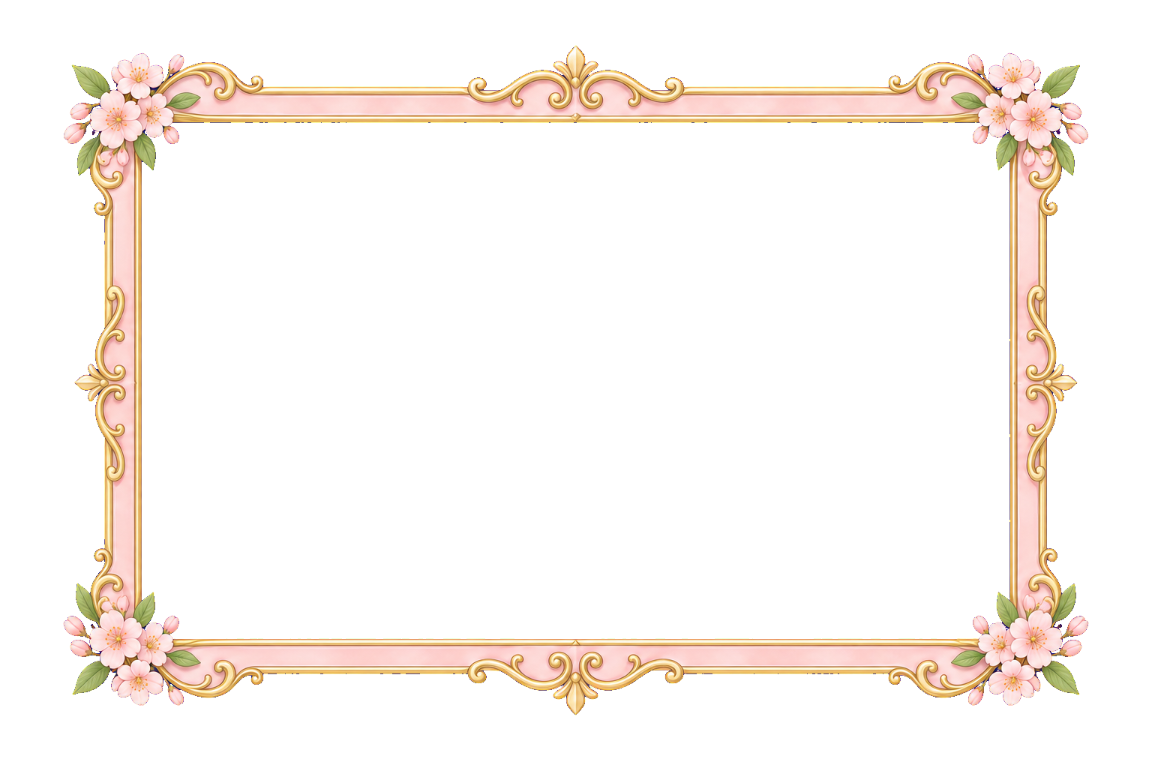
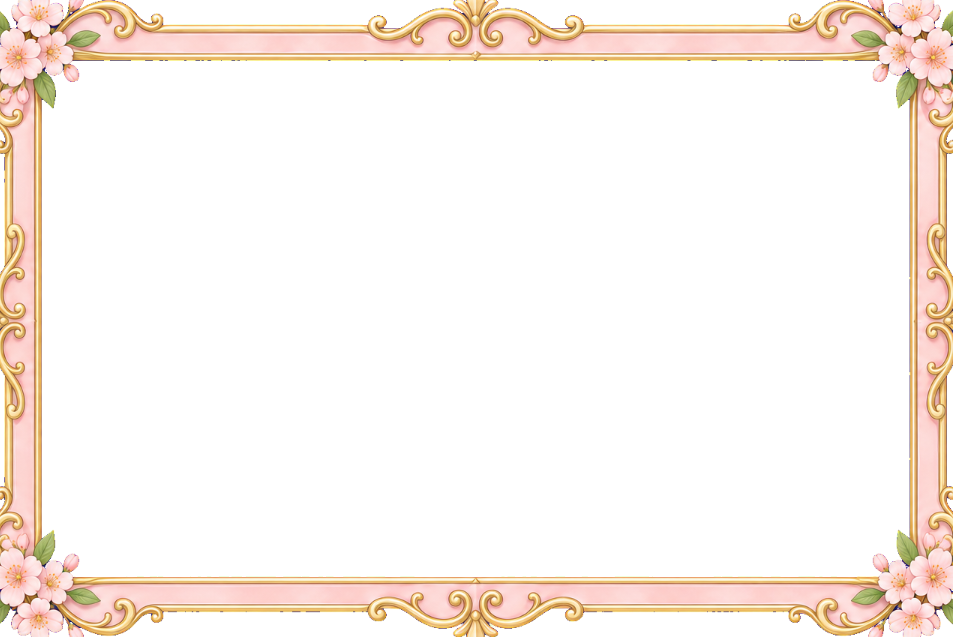
Update Pokémon images and image bank

diff --git a/bot.py b/bot.py
@@ -249,7 +249,7 @@ PROFILE_FRAME_IMAGES: Final[dict[str, Path]] = {
 }
 PROFILE_FRAME_OPENINGS: Final[dict[str, tuple[int, int, int, int]]] = {
     "nightflower": (74, 84, 1595, 845),
-    "flowerspring": (142, 123, 1009, 638),
+    "flowerspring": (42, 61, 909, 576),
 }
 PROFILE_FRAME_SCALES: Final[dict[str, float]] = {
     "mystic": 1.0,
